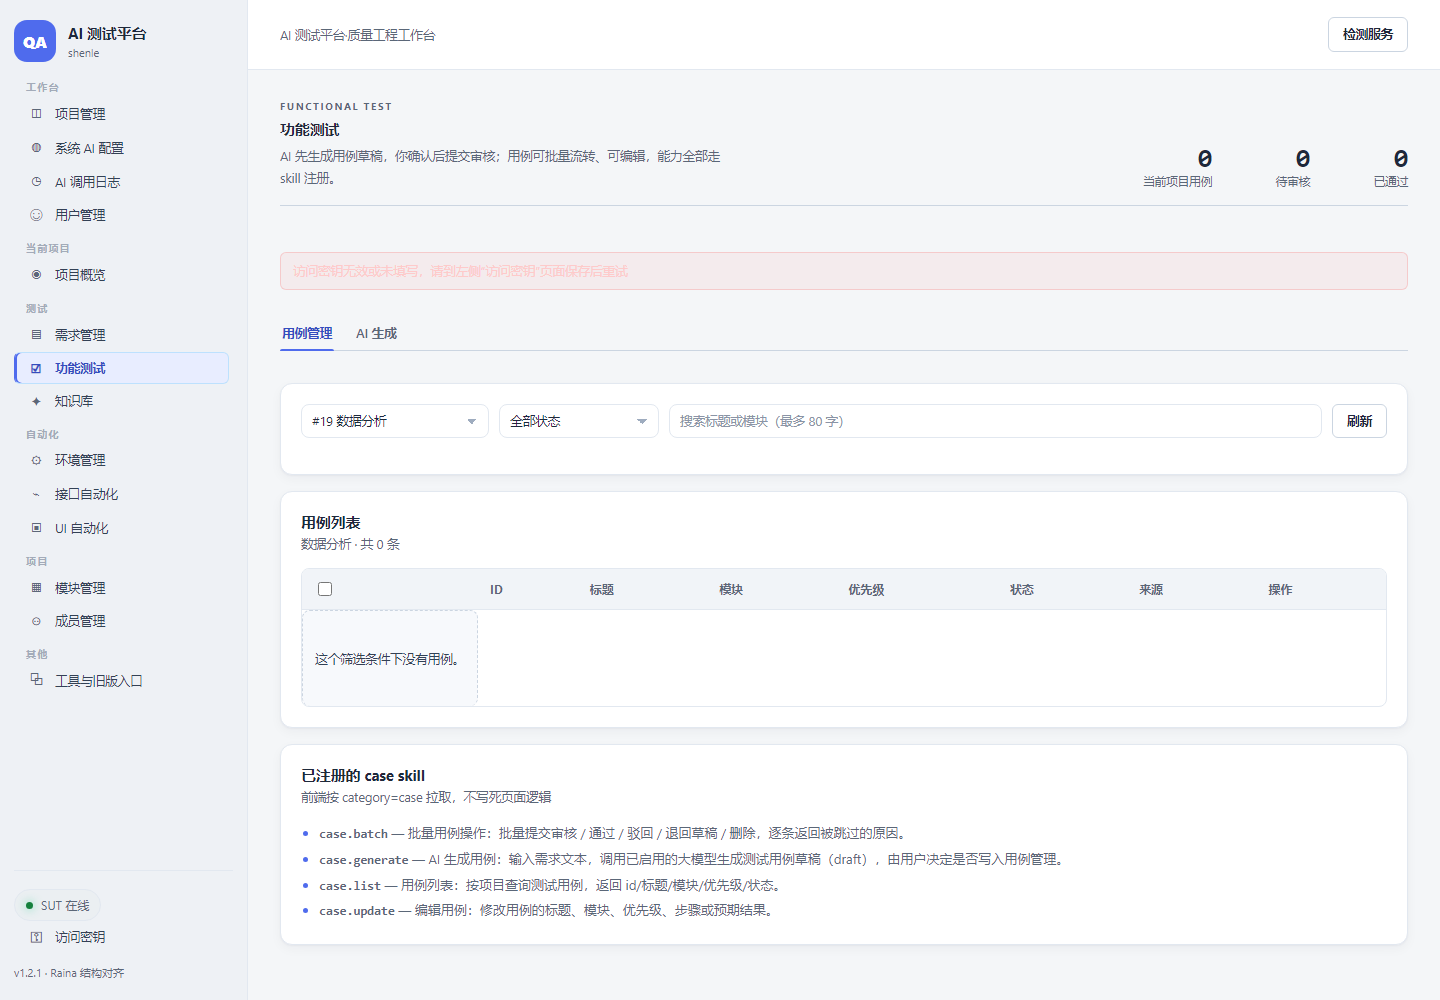
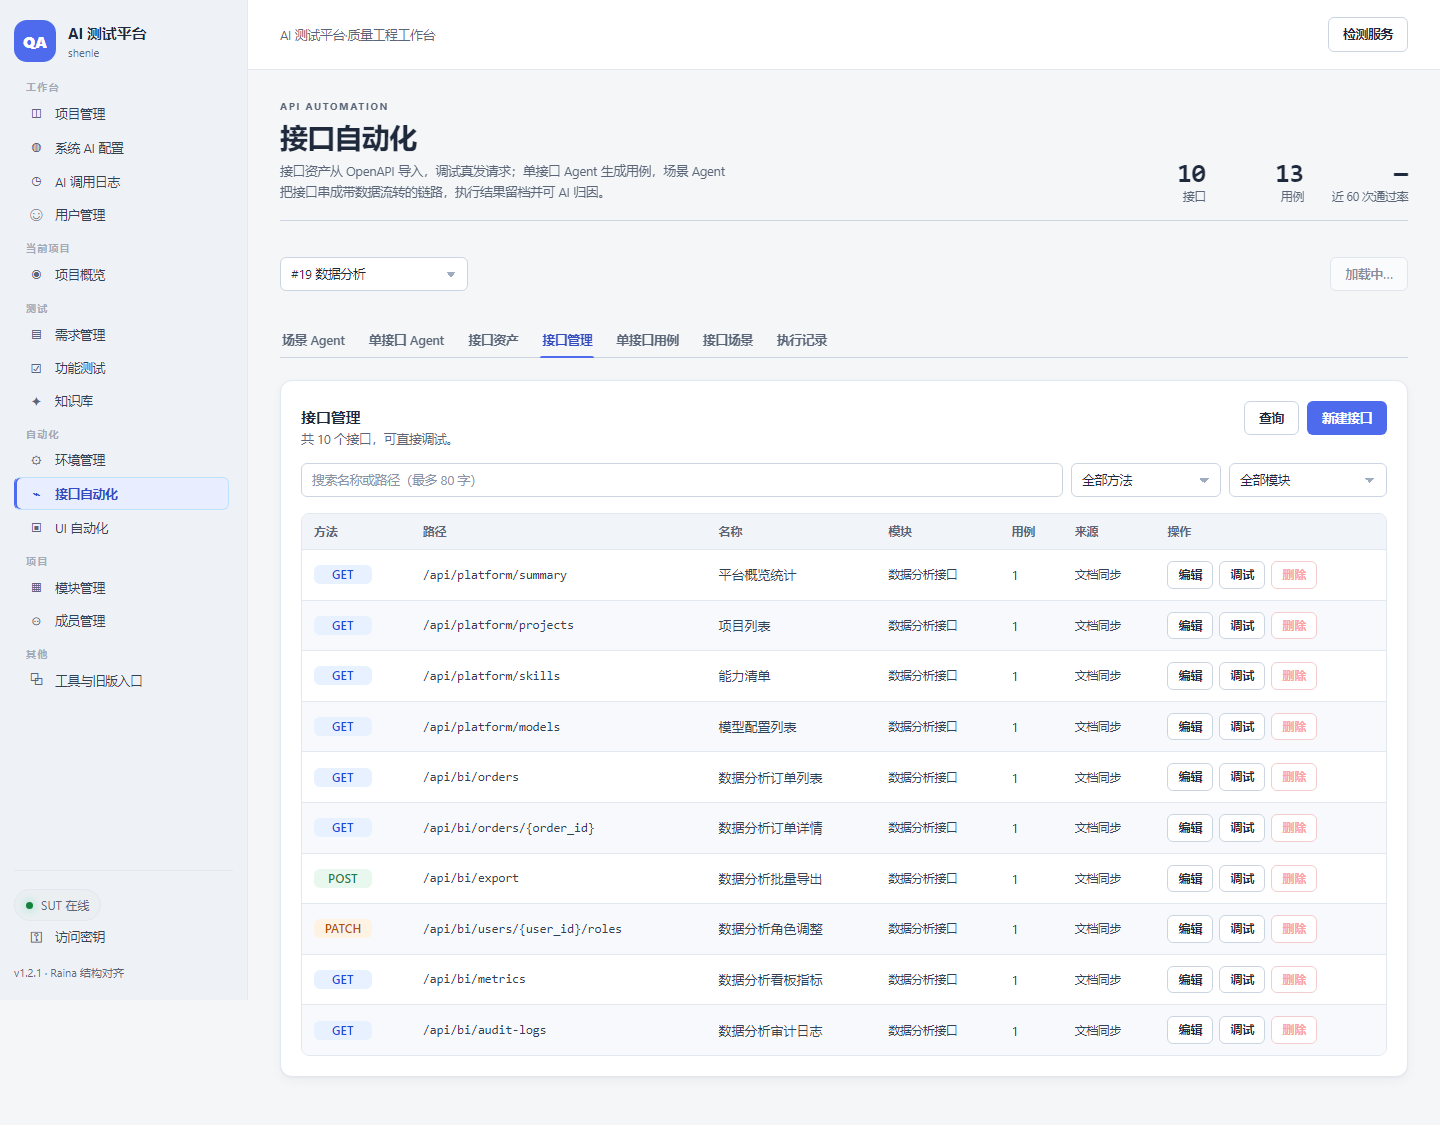
fix(ui): let the narrow layout use the full width
- collapse the shell to a single column below 900px so the drawer does not reserve space
- stop the six-card span rule from squeezing cards on phones

diff --git a/apps/sut/frontend/src/theme.css b/apps/sut/frontend/src/theme.css
@@ -373,10 +373,12 @@ body {
   margin-bottom: var(--sp-5);
 }
 
-/* 6 张统计卡时，第二行两张各占两列，避免右半边空着 */
-.stats-grid > :nth-child(5):nth-last-child(2),
-.stats-grid > :nth-child(5):nth-last-child(2) ~ * {
-  grid-column: span 2;
+/* 6 张统计卡时，第二行两张各占两列，避免右半边空着（窄屏单列时不要生效） */
+@media (min-width: 641px) {
+  .stats-grid > :nth-child(5):nth-last-child(2),
+  .stats-grid > :nth-child(5):nth-last-child(2) ~ * {
+    grid-column: span 2;
+  }
 }
 
 .stat-card {
@@ -919,6 +921,10 @@ input[type="radio"] {
 }
 
 @media (max-width: 900px) {
+  .shell {
+    grid-template-columns: minmax(0, 1fr);
+  }
+
   .topbar {
     display: flex;
     flex-direction: row;
@@ -984,6 +990,10 @@ input[type="radio"] {
 @media (max-width: 640px) {
   .stats-grid {
     grid-template-columns: minmax(0, 1fr);
+  }
+
+  .stats-grid > * {
+    grid-column: auto;
   }
 
   .card {

diff --git a/scripts/capture_prod_v5.py b/scripts/capture_prod_v5.py
@@ -23,7 +23,11 @@ def main() -> None:
         page.on("pageerror", lambda e: errors.append(str(e)))
         for name, path in PAGES:
             page.goto(BASE + path, wait_until="load")
-            page.wait_for_timeout(2200)
+            try:
+                page.wait_for_load_state("networkidle", timeout=15000)
+            except Exception:  # noqa: BLE001 - production can stay busy
+                pass
+            page.wait_for_timeout(2500)
             page.screenshot(path=str(OUT / f"prod-v5-{name}.png"), full_page=True)
         print(page.evaluate(JS))
         print("pageerrors", len(errors))
